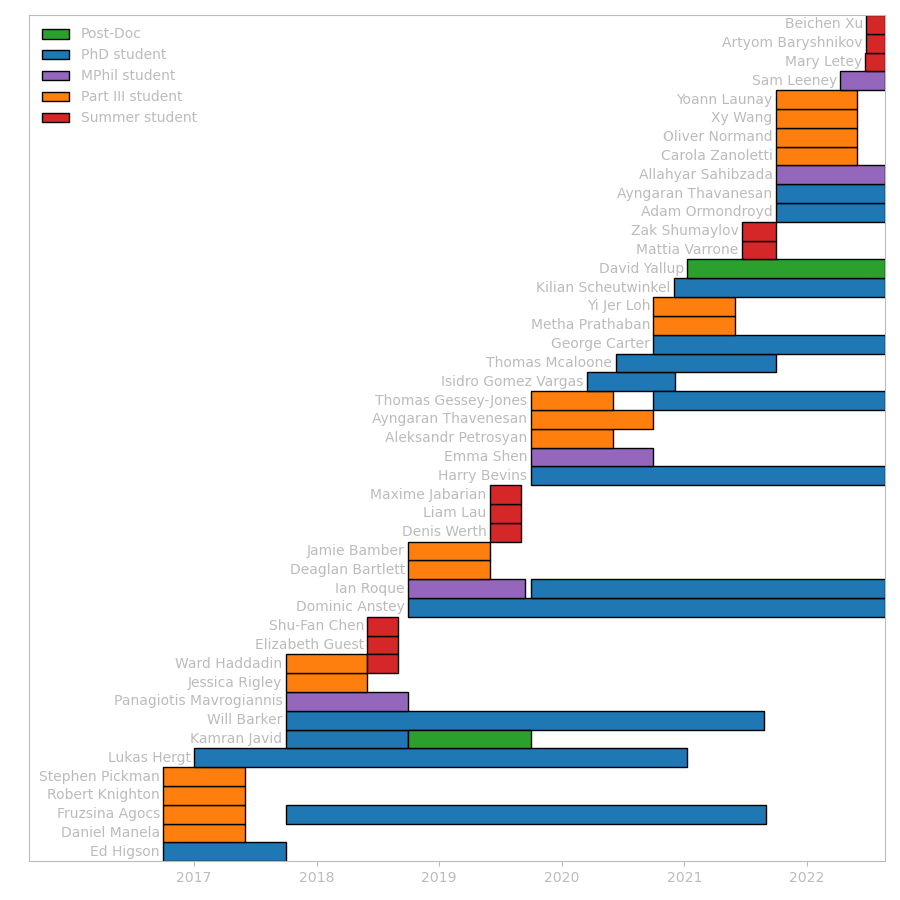
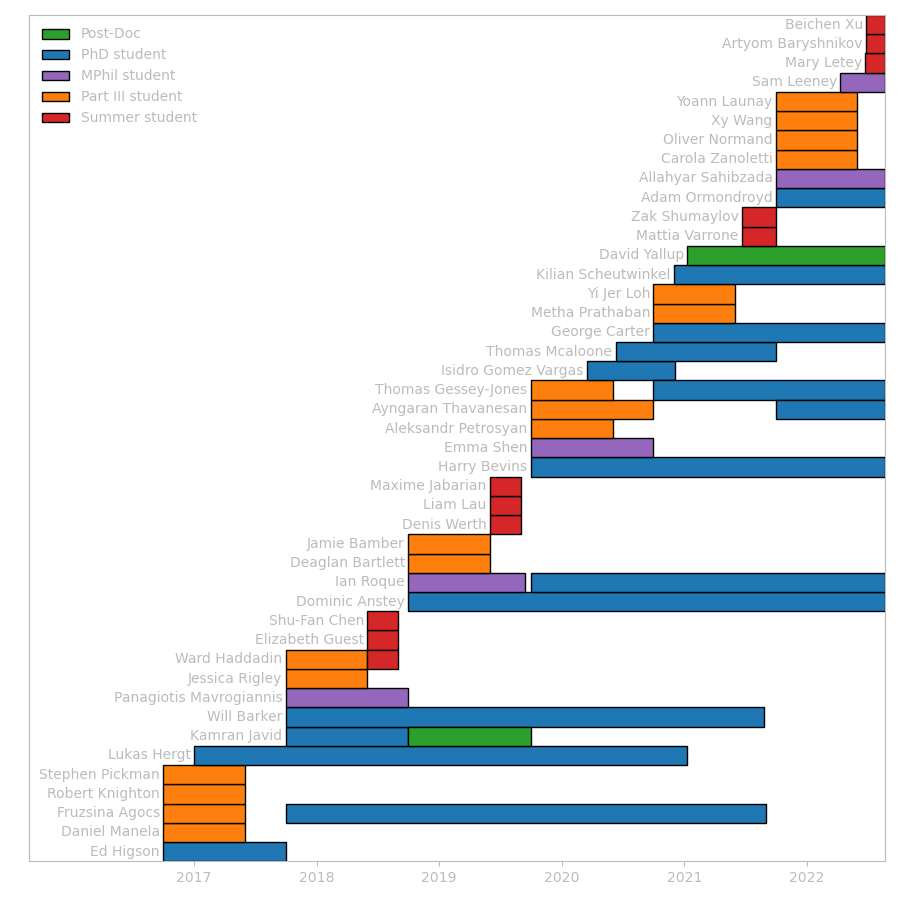
Typo correction

Changed region(s): [[0.0311, 0.0311, 0.9956, 0.9333], [0.7467, 0.0933, 0.7778, 0.1244]]

diff --git a/assets/students/students.html b/assets/students/students.html
@@ -49,7 +49,7 @@
     </td>
   </tr>
   <tr>
-    <td>Ayngaran Thavanesan<ul><li>PhD student: Oct 2021 to present</li><li><a href="https://arxiv.org/search/?query=handley%2C+w%3B+Thavanesan%2CA&amp;searchtype=author">Research papers (1)</a></li></ul></td>
+    <td>Ayngaran Thavanesan<ul><li>PhD student: Oct 2021 to present</li><li>Part III student: Oct 2019 to Oct 2020</li><li><a href="https://arxiv.org/search/?query=handley%2C+w%3B+Thavanesan%2CA&amp;searchtype=author">Research papers (1)</a></li></ul></td>
     <td style="width:30%">
       <img src="/assets/images/user.png" />
     </td>
@@ -180,12 +180,6 @@
     <td>Yi Jer Loh<ul><li>Part III student: Oct 2020 to Jun 2021</li></ul></td>
     <td style="width:30%">
       <img src="/assets/students/images/originals/yi_jer_loh.jpg" />
-    </td>
-  </tr>
-  <tr>
-    <td>Ayngaran Thavenesan<ul><li>Part III student: Oct 2019 to Oct 2020</li></ul></td>
-    <td style="width:30%">
-      <img src="/assets/images/user.png" />
     </td>
   </tr>
   <tr>
